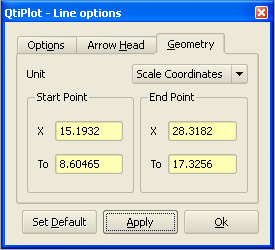
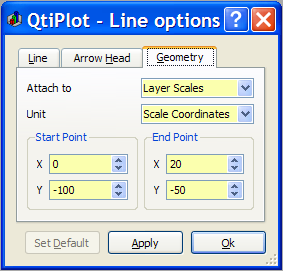
Implemented the possibility to attach 2D plot objects to the layer scales or to the window page.
git-svn-id: http://svn.berlios.de/svnroot/repos/qtiplot/trunk@1390 5a6a7de5-fb12-0410-b871-c33778c25c60

diff --git a/qtiplot/src/plot2D/dialogs/EnrichmentDialog.cpp b/qtiplot/src/plot2D/dialogs/EnrichmentDialog.cpp
@@ -425,6 +425,16 @@ void EnrichmentDialog::initGeometryPage()
 {
     geometryPage = new QWidget();
 
+	QGridLayout *bl1 = new QGridLayout();
+
+	attachToBox = new QComboBox();
+	attachToBox->insertItem(tr("Page"));
+	attachToBox->insertItem(tr("Layer Scales"));
+	//attachToBox->setCurrentIndex((int)lm->attachPolicy());
+
+	bl1->addWidget(new QLabel(tr( "Attach to" )), 0, 0);
+	bl1->addWidget(attachToBox, 0, 1);
+
 	unitBox = new QComboBox();
 	unitBox->insertItem(tr("inch"));
 	unitBox->insertItem(tr("mm"));
@@ -434,9 +444,8 @@ void EnrichmentDialog::initGeometryPage()
 	if (d_widget_type != MDIWindow)
         unitBox->insertItem(tr("scale"));
 
-	QBoxLayout *bl1 = new QBoxLayout (QBoxLayout::LeftToRight);
-	bl1->addWidget(new QLabel(tr( "Unit" )));
-	bl1->addWidget(unitBox);
+	bl1->addWidget(new QLabel(tr( "Unit" )), 1, 0);
+	bl1->addWidget(unitBox, 1, 1);
 
 	ApplicationWindow *app = (ApplicationWindow *)parent();
 	QLocale locale = QLocale();
@@ -551,6 +560,7 @@ void EnrichmentDialog::setWidget(QWidget *w)
 		boxFrameWidth->blockSignals(false);
 
 		unitBox->setCurrentIndex(app->d_frame_geometry_unit);
+		attachToBox->setCurrentIndex((int)fw->attachPolicy());
 		displayCoordinates(app->d_frame_geometry_unit);
     } else {
 		unitBox->setCurrentIndex(FrameWidget::Pixel);
@@ -656,9 +666,12 @@ void EnrichmentDialog::apply()
 		frameApplyTo();
 	else if (imagePage && tabWidget->currentPage() == imagePage)
 		chooseImageFile(imagePathBox->text());
-	else if (tabWidget->currentPage() == geometryPage)
+	else if (tabWidget->currentPage() == geometryPage){
 		setCoordinates(unitBox->currentIndex());
-	else if (patternPage && tabWidget->currentPage() == patternPage)
+		FrameWidget *fw = qobject_cast<FrameWidget *>(d_widget);
+        if (fw)
+            fw->setAttachPolicy((FrameWidget::AttachPolicy)attachToBox->currentIndex());
+	} else if (patternPage && tabWidget->currentPage() == patternPage)
 		patternApplyTo();
 	else if (textPage && tabWidget->currentPage() == textPage){
 		LegendWidget *l = qobject_cast<LegendWidget *>(d_widget);

diff --git a/qtiplot/src/plot2D/Graph.cpp b/qtiplot/src/plot2D/Graph.cpp
@@ -2615,6 +2615,9 @@ void Graph::addArrow(QStringList list, int fileVersion)
 		mrk->setHeadAngle(list[11].toInt());
 		mrk->fillArrowHead(list[12]=="1");
 	}
+
+	if (list.count()>13)//introduced in file version 0.9.7.10
+		mrk->setAttachPolicy((ArrowMarker::AttachPolicy)list[13].toInt());
 }
 
 ArrowMarker* Graph::addArrow(ArrowMarker* mrk)
@@ -2634,6 +2637,7 @@ ArrowMarker* Graph::addArrow(ArrowMarker* mrk)
 		aux->setHeadLength(mrk->headLength());
 		aux->setHeadAngle(mrk->headAngle());
 		aux->fillArrowHead(mrk->filledArrowHead());
+		aux->setAttachPolicy(mrk->attachPolicy());
 	}
 	return aux;
 }
@@ -2670,7 +2674,8 @@ QString Graph::saveMarkers()
 		s+=QString::number(mrkL->hasStartArrow())+"\t";
 		s+=QString::number(mrkL->headLength())+"\t";
 		s+=QString::number(mrkL->headAngle())+"\t";
-		s+=QString::number(mrkL->filledArrowHead())+"</line>\n";
+		s+=QString::number(mrkL->filledArrowHead())+"\t";
+		s+=QString::number(mrkL->attachPolicy())+"</line>\n";
 	}
 
 	foreach(FrameWidget *f, d_enrichments)
@@ -3937,8 +3942,12 @@ QString Graph::saveToString(bool saveAsTemplate)
 
 void Graph::updateMarkersBoundingRect()
 {
-    foreach(FrameWidget *f, d_enrichments)
-		f->updateCoordinates();
+    foreach(FrameWidget *f, d_enrichments){
+    	if (f->attachPolicy() == FrameWidget::Scales)
+			f->resetCoordinates();
+		else
+			f->updateCoordinates();
+    }
 
 	if (!d_lines.size())
 		return;
@@ -6216,6 +6225,8 @@ FrameWidget* Graph::add(FrameWidget* fw, bool copy)
 		aux = new EllipseWidget(this);
 		((EllipseWidget *)aux)->clone(e);
 	}
+
+	aux->setAttachPolicy(fw->attachPolicy());
 
 	d_enrichments << aux;
 	d_active_enrichment = aux;

diff --git a/qtiplot/src/plot2D/dialogs/LineDialog.cpp b/qtiplot/src/plot2D/dialogs/LineDialog.cpp
@@ -157,13 +157,22 @@ LineDialog::LineDialog( ArrowMarker *line, QWidget* parent,  Qt::WFlags fl )
 
 void LineDialog::initGeometryTab()
 {
+	QGridLayout *bl1 = new QGridLayout();
+
+	attachToBox = new QComboBox();
+	attachToBox->insertItem(tr("Page"));
+	attachToBox->insertItem(tr("Layer Scales"));
+	attachToBox->setCurrentIndex((int)lm->attachPolicy());
+
+	bl1->addWidget(new QLabel(tr( "Attach to" )), 0, 0);
+	bl1->addWidget(attachToBox, 0, 1);
+
 	unitBox = new QComboBox();
 	unitBox->insertItem(tr("Scale Coordinates"));
 	unitBox->insertItem(tr("Pixels"));
 
-	QBoxLayout *bl1 = new QBoxLayout (QBoxLayout::LeftToRight);
-	bl1->addWidget(new QLabel(tr( "Unit" )));
-	bl1->addWidget(unitBox);
+	bl1->addWidget(new QLabel(tr( "Unit" )), 1, 0);
+	bl1->addWidget(unitBox, 1, 1);
 
 	ApplicationWindow *app = (ApplicationWindow *)parent();
 	QLocale locale = QLocale();
@@ -226,6 +235,7 @@ void LineDialog::initGeometryTab()
 	QVBoxLayout* vl = new QVBoxLayout();
     vl->addLayout(bl1);
     vl->addLayout(bl2);
+    vl->addStretch();
 
     geometry = new QWidget();
     geometry->setLayout(vl);
@@ -303,8 +313,10 @@ void LineDialog::apply()
 
         if (lm->filledArrowHead() != filledBox->isChecked())
             lm->fillArrowHead( filledBox->isChecked() );
-	} else if (tw->currentPage()==(QWidget *)geometry)
+	} else if (tw->currentPage()==(QWidget *)geometry){
+		lm->setAttachPolicy((ArrowMarker::AttachPolicy)attachToBox->currentIndex());
         setCoordinates(unitBox->currentItem());
+	}
 
 	Graph *g = (Graph *)lm->plot();
 	g->replot();

diff --git a/qtiplot/src/plot2D/ArrowMarker.cpp b/qtiplot/src/plot2D/ArrowMarker.cpp
@@ -51,7 +51,8 @@ ArrowMarker::ArrowMarker():
 		d_head_length(4),
 		d_rect(0, 0, 1, 1),
 		d_editable(false),
-		d_op(None)
+		d_op(None),
+		d_attach_policy(Scales)
 {
 }
 
@@ -376,13 +377,16 @@ QwtDoubleRect ArrowMarker::boundingRect() const
 
 void ArrowMarker::updateBoundingRect()
 {
-const QwtScaleMap &xMap = plot()->canvasMap(xAxis());
-const QwtScaleMap &yMap = plot()->canvasMap(yAxis());
+	if (d_attach_policy == Scales)
+		return;
 
-d_rect.setLeft(xMap.invTransform(d_start.x()));
-d_rect.setTop(yMap.invTransform(d_start.y()));
-d_rect.setRight(xMap.invTransform(d_end.x()));
-d_rect.setBottom(yMap.invTransform(d_end.y()));
+	const QwtScaleMap &xMap = plot()->canvasMap(xAxis());
+	const QwtScaleMap &yMap = plot()->canvasMap(yAxis());
+
+	d_rect.setLeft(xMap.invTransform(d_start.x()));
+	d_rect.setTop(yMap.invTransform(d_start.y()));
+	d_rect.setRight(xMap.invTransform(d_end.x()));
+	d_rect.setBottom(yMap.invTransform(d_end.y()));
 }
 
 void ArrowMarker::setEditable(bool yes)
@@ -560,4 +564,10 @@ void ArrowMarker::displayInfo(bool clear)
 		s += " " + tr("eqn") + ": " + tr("x") + "=" + locale.toString(line.x1(), 'g', prec);
 	app->displayInfo(s);
 	g->setToolTip(s.split("; ").join("\n"));
+}
+
+void ArrowMarker::setAttachPolicy(AttachPolicy attachTo)
+{
+	if (attachTo != d_attach_policy)
+		d_attach_policy = attachTo;
 }

diff --git a/qtiplot/src/plot2D/TexWidget.cpp b/qtiplot/src/plot2D/TexWidget.cpp
@@ -153,6 +153,7 @@ void TexWidget::restore(Graph *g, const QStringList& lst)
 	int frameStyle = 0;
 	QPen pen = QPen(Qt::black, 1, Qt::SolidLine, Qt::SquareCap, Qt::MiterJoin);
 	double x = 0.0, y = 0.0, right = 0.0, bottom = 0.0;
+	AttachPolicy attachTo = FrameWidget::Page;
 	QPixmap pix;
 	QStringList::const_iterator line;
 	QString formula;
@@ -174,6 +175,8 @@ void TexWidget::restore(Graph *g, const QStringList& lst)
 			right = s.remove("<right>").remove("</right>").toDouble();
 		else if (s.contains("<bottom>"))
 			bottom = s.remove("<bottom>").remove("</bottom>").toDouble();
+		else if (s.contains("<attachTo>"))
+			attachTo = (FrameWidget::AttachPolicy)s.remove("<attachTo>").remove("</attachTo>").toInt();
 		else if (s.contains("<tex>"))
 			formula = s.remove("<tex>").remove("</tex>");
 		else if (s.contains("<xpm>")){
@@ -191,4 +194,5 @@ void TexWidget::restore(Graph *g, const QStringList& lst)
 	t->setFrameStyle(frameStyle);
 	t->setFramePen(pen);
 	t->setCoordinates(x, y, right, bottom);
+	t->setAttachPolicy(attachTo);
 }

diff --git a/qtiplot/src/plot2D/ImageWidget.cpp b/qtiplot/src/plot2D/ImageWidget.cpp
@@ -210,6 +210,7 @@ void ImageWidget::restore(Graph *g, const QStringList& lst)
 	QString fn;
 	bool save_xpm = false;
 	ImageWidget *i = NULL;
+	AttachPolicy attachTo = FrameWidget::Page;
 	for (line = lst.begin(); line != lst.end(); line++){
         QString s = *line;
         if (s.contains("<Frame>"))
@@ -228,6 +229,8 @@ void ImageWidget::restore(Graph *g, const QStringList& lst)
 			right = s.remove("<right>").remove("</right>").toDouble();
 		else if (s.contains("<bottom>"))
 			bottom = s.remove("<bottom>").remove("</bottom>").toDouble();
+		else if (s.contains("<attachTo>"))
+			attachTo = (FrameWidget::AttachPolicy)s.remove("<attachTo>").remove("</attachTo>").toInt();
 		else if (s.contains("<path>"))
 			i = g->addImage(s.remove("<path>").remove("</path>"));
 		else if (s.contains("<xpm>")){
@@ -250,5 +253,6 @@ void ImageWidget::restore(Graph *g, const QStringList& lst)
 		i->setFramePen(pen);
 		i->setCoordinates(x, y, right, bottom);
 		i->setSaveInternally(save_xpm);
+		i->setAttachPolicy(attachTo);
 	}
 }

diff --git a/qtiplot/src/plot2D/FrameWidget.cpp b/qtiplot/src/plot2D/FrameWidget.cpp
@@ -45,7 +45,8 @@ FrameWidget::FrameWidget(Graph *plot):QWidget(plot->multiLayer()->canvas()),
 	d_frame_pen(QPen(Qt::black, 1, Qt::SolidLine, Qt::SquareCap, Qt::MiterJoin)),
 	d_brush(QBrush()),
 	d_angle(0),
-	d_shadow_width(5)
+	d_shadow_width(5),
+	d_attach_policy(Scales)
 {
 	setAttribute(Qt::WA_DeleteOnClose);
 
@@ -262,6 +263,7 @@ QString FrameWidget::saveToString()
 	s += "<y>" + QString::number(d_y, 'g', 14) + "</y>\n";
 	s += "<right>" + QString::number(d_x_right, 'g', 15) + "</right>\n";
     s += "<bottom>" + QString::number(d_y_bottom, 'g', 15) + "</bottom>\n";
+    s += "<attachTo>" + QString::number(d_attach_policy) + "</attachTo>\n";
 	return s;
 }
 
@@ -433,4 +435,10 @@ void FrameWidget::setRect(QWidget *widget, double x, double y, double w, double 
 		default:
             break;
 	}
+}
+
+void FrameWidget::setAttachPolicy(AttachPolicy attachTo)
+{
+	if (attachTo != d_attach_policy)
+		d_attach_policy = attachTo;
 }

diff --git a/qtiplot/src/plot2D/ArrowMarker.h b/qtiplot/src/plot2D/ArrowMarker.h
@@ -44,6 +44,7 @@ class ArrowMarker: public QObject, public QwtPlotMarker
 {
 public:
 	enum Operation { None, MoveStart, MoveEnd, MoveBoth };
+	enum AttachPolicy {Page, Scales};
     ArrowMarker();
 
 	//! Pixel coordinates of the start point
@@ -125,6 +126,9 @@ public:
 	//! Filters events for the canvas while #d_editable is true.
 	bool eventFilter(QObject *o, QEvent *e);
 
+	void setAttachPolicy(AttachPolicy attachTo);
+	AttachPolicy attachPolicy(){return d_attach_policy;};
+
 private:
 	void displayInfo(bool clear = false);
 	void draw(QPainter *p, const QwtScaleMap &xMap, const QwtScaleMap &yMap, const QRect &r) const;
@@ -165,5 +169,7 @@ private:
 	 * need to remember this bit.
 	 */
 	QPoint d_op_startat;
+
+	AttachPolicy d_attach_policy;
 };
 #endif

diff --git a/qtiplot/src/plot2D/FrameWidget.h b/qtiplot/src/plot2D/FrameWidget.h
@@ -49,6 +49,8 @@ public:
 
 	//! The kinds of frame a FrameWidget can draw around.
 	enum FrameStyle{None = 0, Line = 1, Shadow = 2};
+	//! The attach to policy.
+	enum AttachPolicy {Page, Scales};
 
     //! Returns the x axis coordiante of the top left corner
     double xValue(){return d_x;};
@@ -115,6 +117,9 @@ public:
     virtual void updateCoordinates();
 	virtual QString saveToString();
 
+	void setAttachPolicy(AttachPolicy attachTo);
+	AttachPolicy attachPolicy(){return d_attach_policy;};
+
 signals:
 	void showDialog();
 	void showMenu();
@@ -158,6 +163,8 @@ protected:
     double d_y_bottom;
 	//! Frame width in pixels
 	int d_shadow_width;
+	//! The attach to policy
+	AttachPolicy d_attach_policy;
 };
 
 #endif

diff --git a/qtiplot/src/plot2D/LegendWidget.cpp b/qtiplot/src/plot2D/LegendWidget.cpp
@@ -77,6 +77,7 @@ d_tex_output(false)
 	setMouseTracking(true);
 	show();
 	setFocus();
+	d_attach_policy = Page;
 }
 
 void LegendWidget::paintEvent(QPaintEvent *e)
@@ -764,6 +765,8 @@ void LegendWidget::restore(Graph *g, const QStringList& lst)
 			x = s.remove("<x>").remove("</x>").toDouble();
 		else if (s.contains("<y>"))
 			y = s.remove("<y>").remove("</y>").toDouble();
+		else if (s.contains("<attachTo>"))
+			l->setAttachPolicy((FrameWidget::AttachPolicy)s.remove("<attachTo>").remove("</attachTo>").toInt());
 		else if (s.contains("<Text>")){
 			QStringList txt;
 			while ( s != "</Text>" ){

diff --git a/qtiplot/src/plot2D/RectangleWidget.cpp b/qtiplot/src/plot2D/RectangleWidget.cpp
@@ -93,6 +93,8 @@ void RectangleWidget::restore(Graph *g, const QStringList& lst)
 			right = s.remove("<right>").remove("</right>").toDouble();
 		else if (s.contains("<bottom>"))
 			bottom = s.remove("<bottom>").remove("</bottom>").toDouble();
+		else if (s.contains("<attachTo>"))
+			r->setAttachPolicy((FrameWidget::AttachPolicy)s.remove("<attachTo>").remove("</attachTo>").toInt());
 		else if (s.contains("<Background>"))
 			backgroundColor = QColor(s.remove("<Background>").remove("</Background>"));
 		else if (s.contains("<Alpha>"))

diff --git a/qtiplot/src/plot2D/EllipseWidget.cpp b/qtiplot/src/plot2D/EllipseWidget.cpp
@@ -91,6 +91,8 @@ void EllipseWidget::restore(Graph *g, const QStringList& lst)
 			right = s.remove("<right>").remove("</right>").toDouble();
 		else if (s.contains("<bottom>"))
 			bottom = s.remove("<bottom>").remove("</bottom>").toDouble();
+		else if (s.contains("<attachTo>"))
+			r->setAttachPolicy((FrameWidget::AttachPolicy)s.remove("<attachTo>").remove("</attachTo>").toInt());
 		else if (s.contains("<Background>"))
 			backgroundColor = QColor(s.remove("<Background>").remove("</Background>"));
 		else if (s.contains("<Alpha>"))
